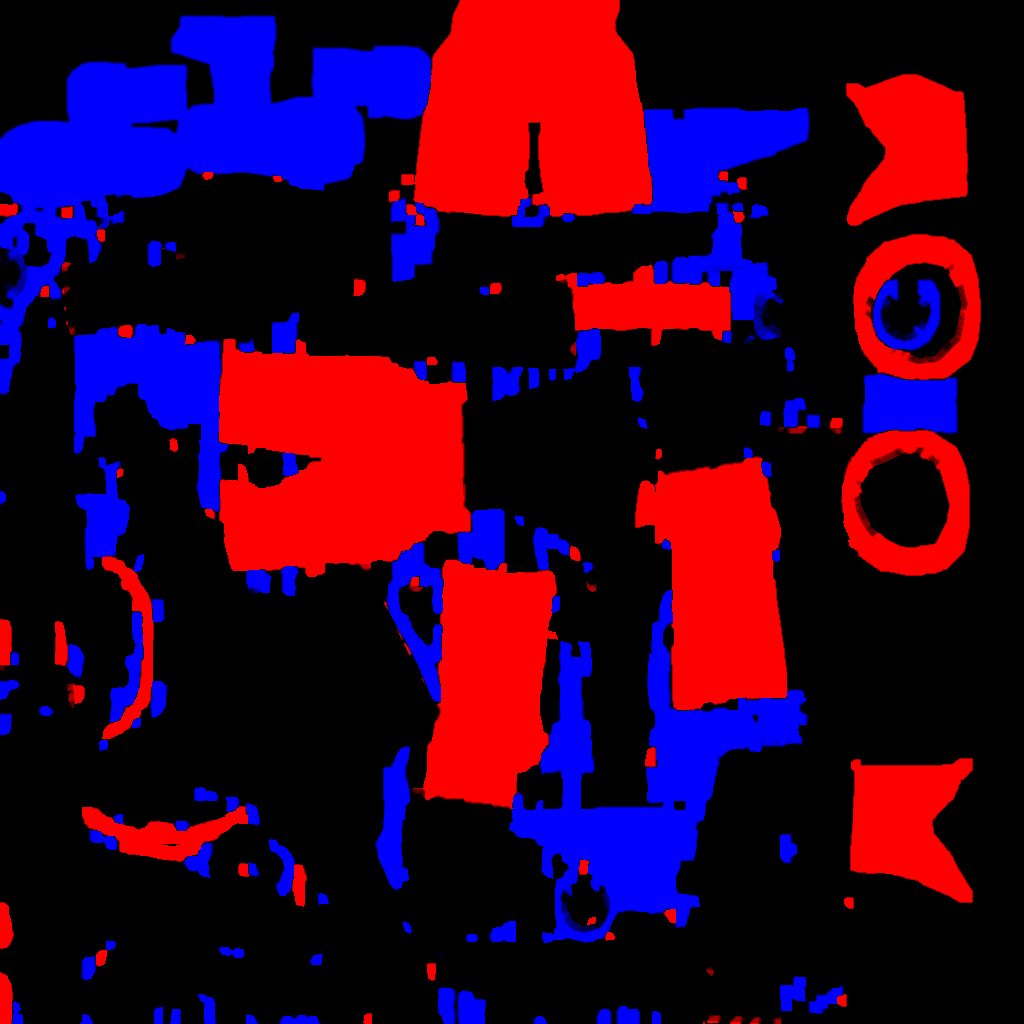
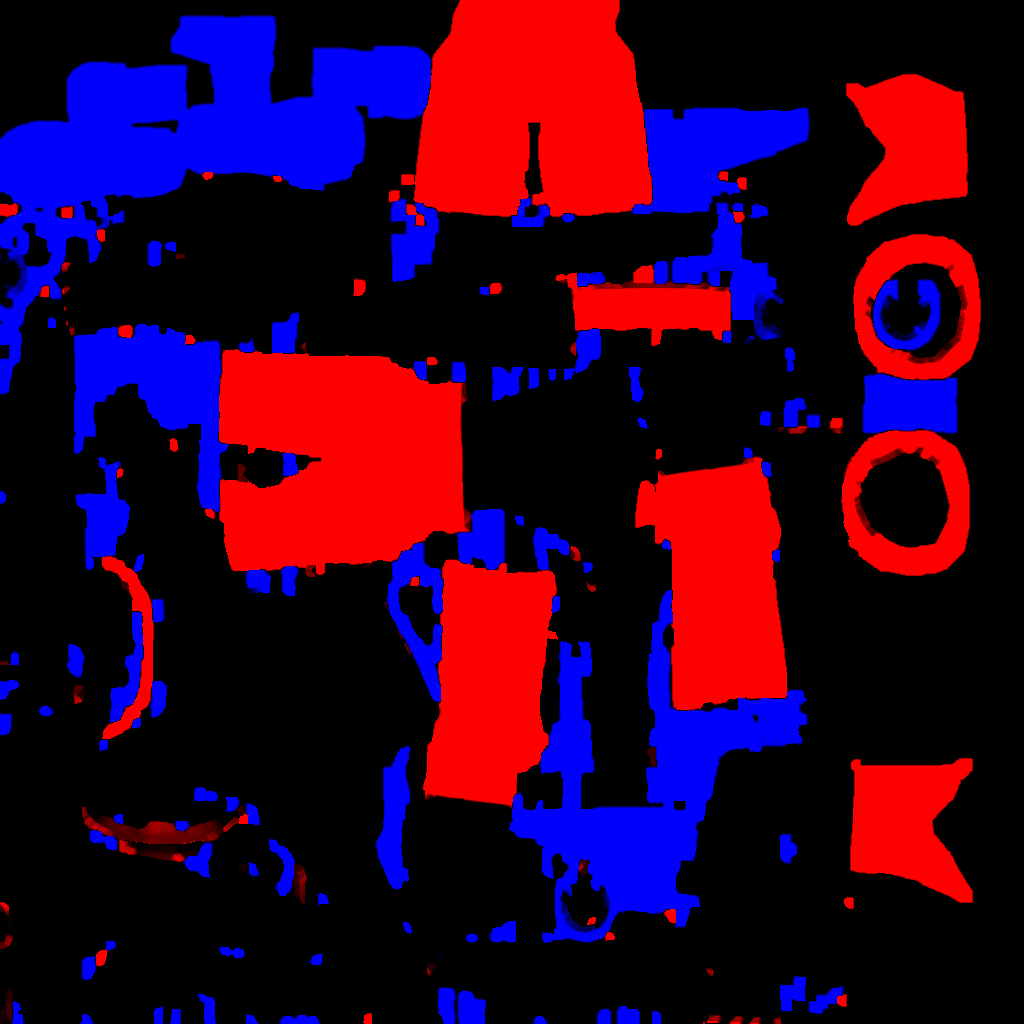
m2 waistband: the trunks mask is cut per texel at the waistband's measured top edge (36 angle bins, 111-113.6 cm) instead of per triangle, so the red no longer bleeds up the lower back in a jagged edge; texels that turned to skin are repainted from the skin above. Hip-band limit kept (forearm stays 

diff --git a/tools/blender/build_meshy.py b/tools/blender/build_meshy.py
@@ -649,6 +649,8 @@ nyr = np.zeros((N1, N1), dtype=np.float32)                    # facing: + = back
 swr = np.zeros((N1, N1), dtype=np.float32)
 zr = np.zeros((N1, N1), dtype=np.float32)                     # height of the texel's triangle (m)
 xr = np.zeros((N1, N1), dtype=np.float32)                     # its x (+ left)
+xt = np.zeros((N1, N1), dtype=np.float32); yt = np.zeros((N1, N1), dtype=np.float32)
+zt = np.zeros((N1, N1), dtype=np.float32)                     # per-texel interpolated surface height (m)
 UVp = uvl[LT] * N1 - 0.5
 for ti in range(len(TV)):
     a, b, c = UVp[ti]
@@ -666,6 +668,10 @@ for ti in range(len(TV)):
     swr[gy[ins], gx[ins]] = tsw[ti]
     zr[gy[ins], gx[ins]] = cz[ti]
     xr[gy[ins], gx[ins]] = cen[ti, 0]
+    l3 = 1 - l1 - l2
+    zt[gy[ins], gx[ins]] = (l1 * P[TV[ti, 0], 2] + l2 * P[TV[ti, 1], 2] + l3 * P[TV[ti, 2], 2])[ins]   # the texel's own surface height
+    xt[gy[ins], gx[ins]] = (l1 * P[TV[ti, 0], 0] + l2 * P[TV[ti, 1], 0] + l3 * P[TV[ti, 2], 0])[ins]
+    yt[gy[ins], gx[ins]] = (l1 * P[TV[ti, 0], 1] + l2 * P[TV[ti, 1], 1] + l3 * P[TV[ti, 2], 1])[ins]
 cover = lab >= 0
 log("uv coverage %.1f%%" % (100 * cover.mean()))
 cp = px_of(C).reshape(N1, 2, N1, 2, 4).mean((1, 3))[..., :3]   # base colour at 1024
@@ -677,6 +683,21 @@ lace = (sat < 0.25) & (mx > 0.45)                              # white laces / c
 red = ((hue < 0.035) | (hue > 0.92)) & (sat > 0.45)
 skinlike = (hue > 0.02) & (hue < 0.14) & (sat > 0.18) & (mx > 0.12)
 m_trunks = (lab == 1) & lace
+# waistband top edge, measured per direction round the body (the band tilts: lower in front, higher at the back): the
+# 98th percentile height of the band's own cloth texels in 36 angle bins, smoothed. The trunks region is then cut PER
+# TEXEL at that height (its interpolated surface position), not per triangle, so the top line is clean and level-ish.
+_th = np.arctan2(yt, xt); _nb = 36
+_edge = np.full(_nb, np.nan)
+_bi = np.clip(((_th + math.pi) / (2 * math.pi) * _nb).astype(int), 0, _nb - 1)
+_src = m_trunks & (zt > 0)
+for _k in range(_nb):
+    _q = zt[_src & (_bi == _k)]
+    if _q.size > 50: _edge[_k] = np.percentile(_q, 99)
+_edge = np.where(np.isnan(_edge), np.nanmedian(_edge), _edge)
+for _ in range(2): _edge = 0.25 * np.roll(_edge, 1) + 0.5 * _edge + 0.25 * np.roll(_edge, -1)
+_ctr = (np.arange(_nb) + 0.5) / _nb * 2 * math.pi - math.pi
+def cut_z(theta): return np.interp(theta, _ctr, _edge, period=2 * math.pi)
+log("waistband top edge cm by angle (front -90deg ... back +90deg):", np.round(100 * _edge[::3], 1).tolist(), "min %.1f max %.1f" % (100 * _edge.min(), 100 * _edge.max()))
 m_glove = (lab == 2) & ~lace | (lab == 5) & (red | (mx < 0.12))
 m_boot = (lab == 3) & (mx < 0.25) & ~skinlike
 m_hair = (lab == 4) & (mx < 0.16) & (sat < 0.6)
@@ -709,6 +730,12 @@ ch = [bleed(clean(bleed(m.astype(np.float32), 6))) for m in (m_trunks, m_glove, 
 # took the kit colour as a red streak on the skin
 own = bleed((lab == 1).astype(np.float32), 6) > 0.99
 ch[0] = ch[0] * own
+# per-texel cut at the measured waistband top (positions bled into the gutter so seams cut at the same height)
+zb, xb, yb = bleed(zt, 6), bleed(xt, 6), bleed(yt, 6)
+cutb = cut_z(np.arctan2(yb, xb))
+_c0 = ch[0].copy()
+ch[0] = ch[0] * np.clip((cutb + 0.002 - zb) / 0.004, 0, 1)
+ch[3] = np.maximum(ch[3], _c0 - ch[0])          # what the cut took from the trunks is skin
 # boots: the shaft above SOCK_Z becomes a short white sock band (boxing boots read low and matte, not tall and shiny)
 SOCK_Z = 0.19
 zrb = bleed(zr, 6)
@@ -744,6 +771,14 @@ for s in (1, -1):
     f = np.clip(blur(np.where(zm, lum / max(float(lum[zm].mean()), 1e-4), 1.0), 2, 2), 0.6, 1.5) ** 0.35
     rep[zm] = cp[refm].mean(0) * f[zm][:, None]; repw |= zm
     log("forearm repaint side %d: %d texels from %d reference skin texels, colour %s" % (s, int(zm.sum()), int(refm.sum()), np.round(cp[refm].mean(0), 3).tolist()))
+# cloth-coloured texels above the waistband cut (now skin): skin colour from just above the cut, own shading kept
+cutt = cut_z(np.arctan2(yt, xt))
+zc = (lab == 1) & lace & (zt > 0) & (zt >= cutt - 0.002)
+refc = (lab >= 0) & skinlike & (zt > cutt + 0.01) & (zt < cutt + 0.06) & (np.abs(xt) < 0.30)
+if zc.any() and refc.any():
+    fc = np.clip(blur(np.where(zc, lum / max(float(lum[zc].mean()), 1e-4), 1.0), 2, 2), 0.6, 1.5) ** 0.35
+    rep[zc] = cp[refc].mean(0) * fc[zc][:, None]; repw |= zc
+    log("waistband repaint: %d texels from %d reference skin texels, colour %s" % (int(zc.sum()), int(refc.sum()), np.round(cp[refc].mean(0), 3).tolist()))
 rf = repw.astype(np.float32); gut = ~cover & (box(rf, 3) > 0)   # carry it into the island gutter (no red seam)
 for k in range(3):
     rep[..., k] = np.where(gut, box(rep[..., k], 3) / np.maximum(box(rf, 3), 1e-6), rep[..., k])
